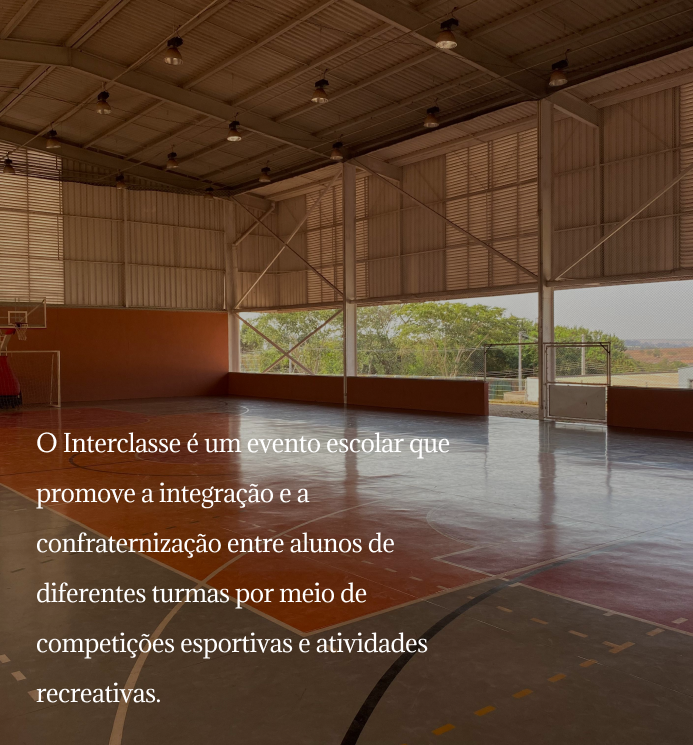
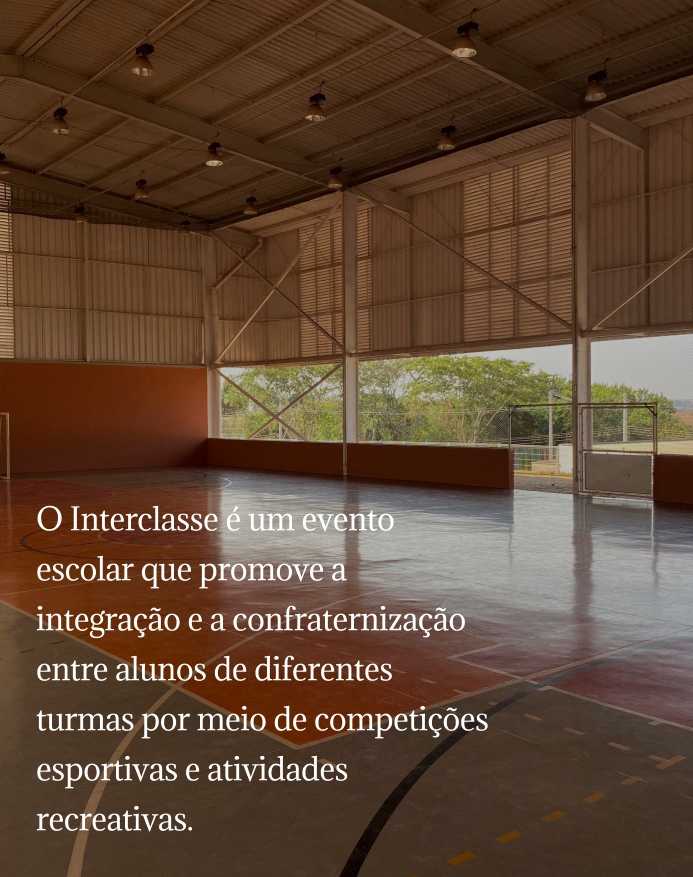
Finalização responsividade Home

diff --git a/src/pages/Home.js b/src/pages/Home.js
@@ -18,11 +18,11 @@ import "slick-carousel/slick/slick.css";
 import "slick-carousel/slick/slick-theme.css";
 
 function Home() {
-  const [isSmallScreen, setIsSmallScreen] = useState(window.innerWidth < 768); // Ajuste o breakpoint conforme necessário
+  const [isSmallScreen, setIsSmallScreen] = useState(window.innerWidth < 550); // Ajuste o breakpoint conforme necessário
 
   // Atualiza o estado com base na largura da tela
   useEffect(() => {
-    const handleResize = () => setIsSmallScreen(window.innerWidth < 768);
+    const handleResize = () => setIsSmallScreen(window.innerWidth < 550);
 
     window.addEventListener("resize", handleResize);
 

diff --git a/src/Home.css b/src/Home.css
@@ -59,3 +59,9 @@ main{
     height: 400px;
   }
 }
+@media (max-width: 550px) {
+  .banner{
+    width: 100%;
+    height: auto;
+  }
+}
